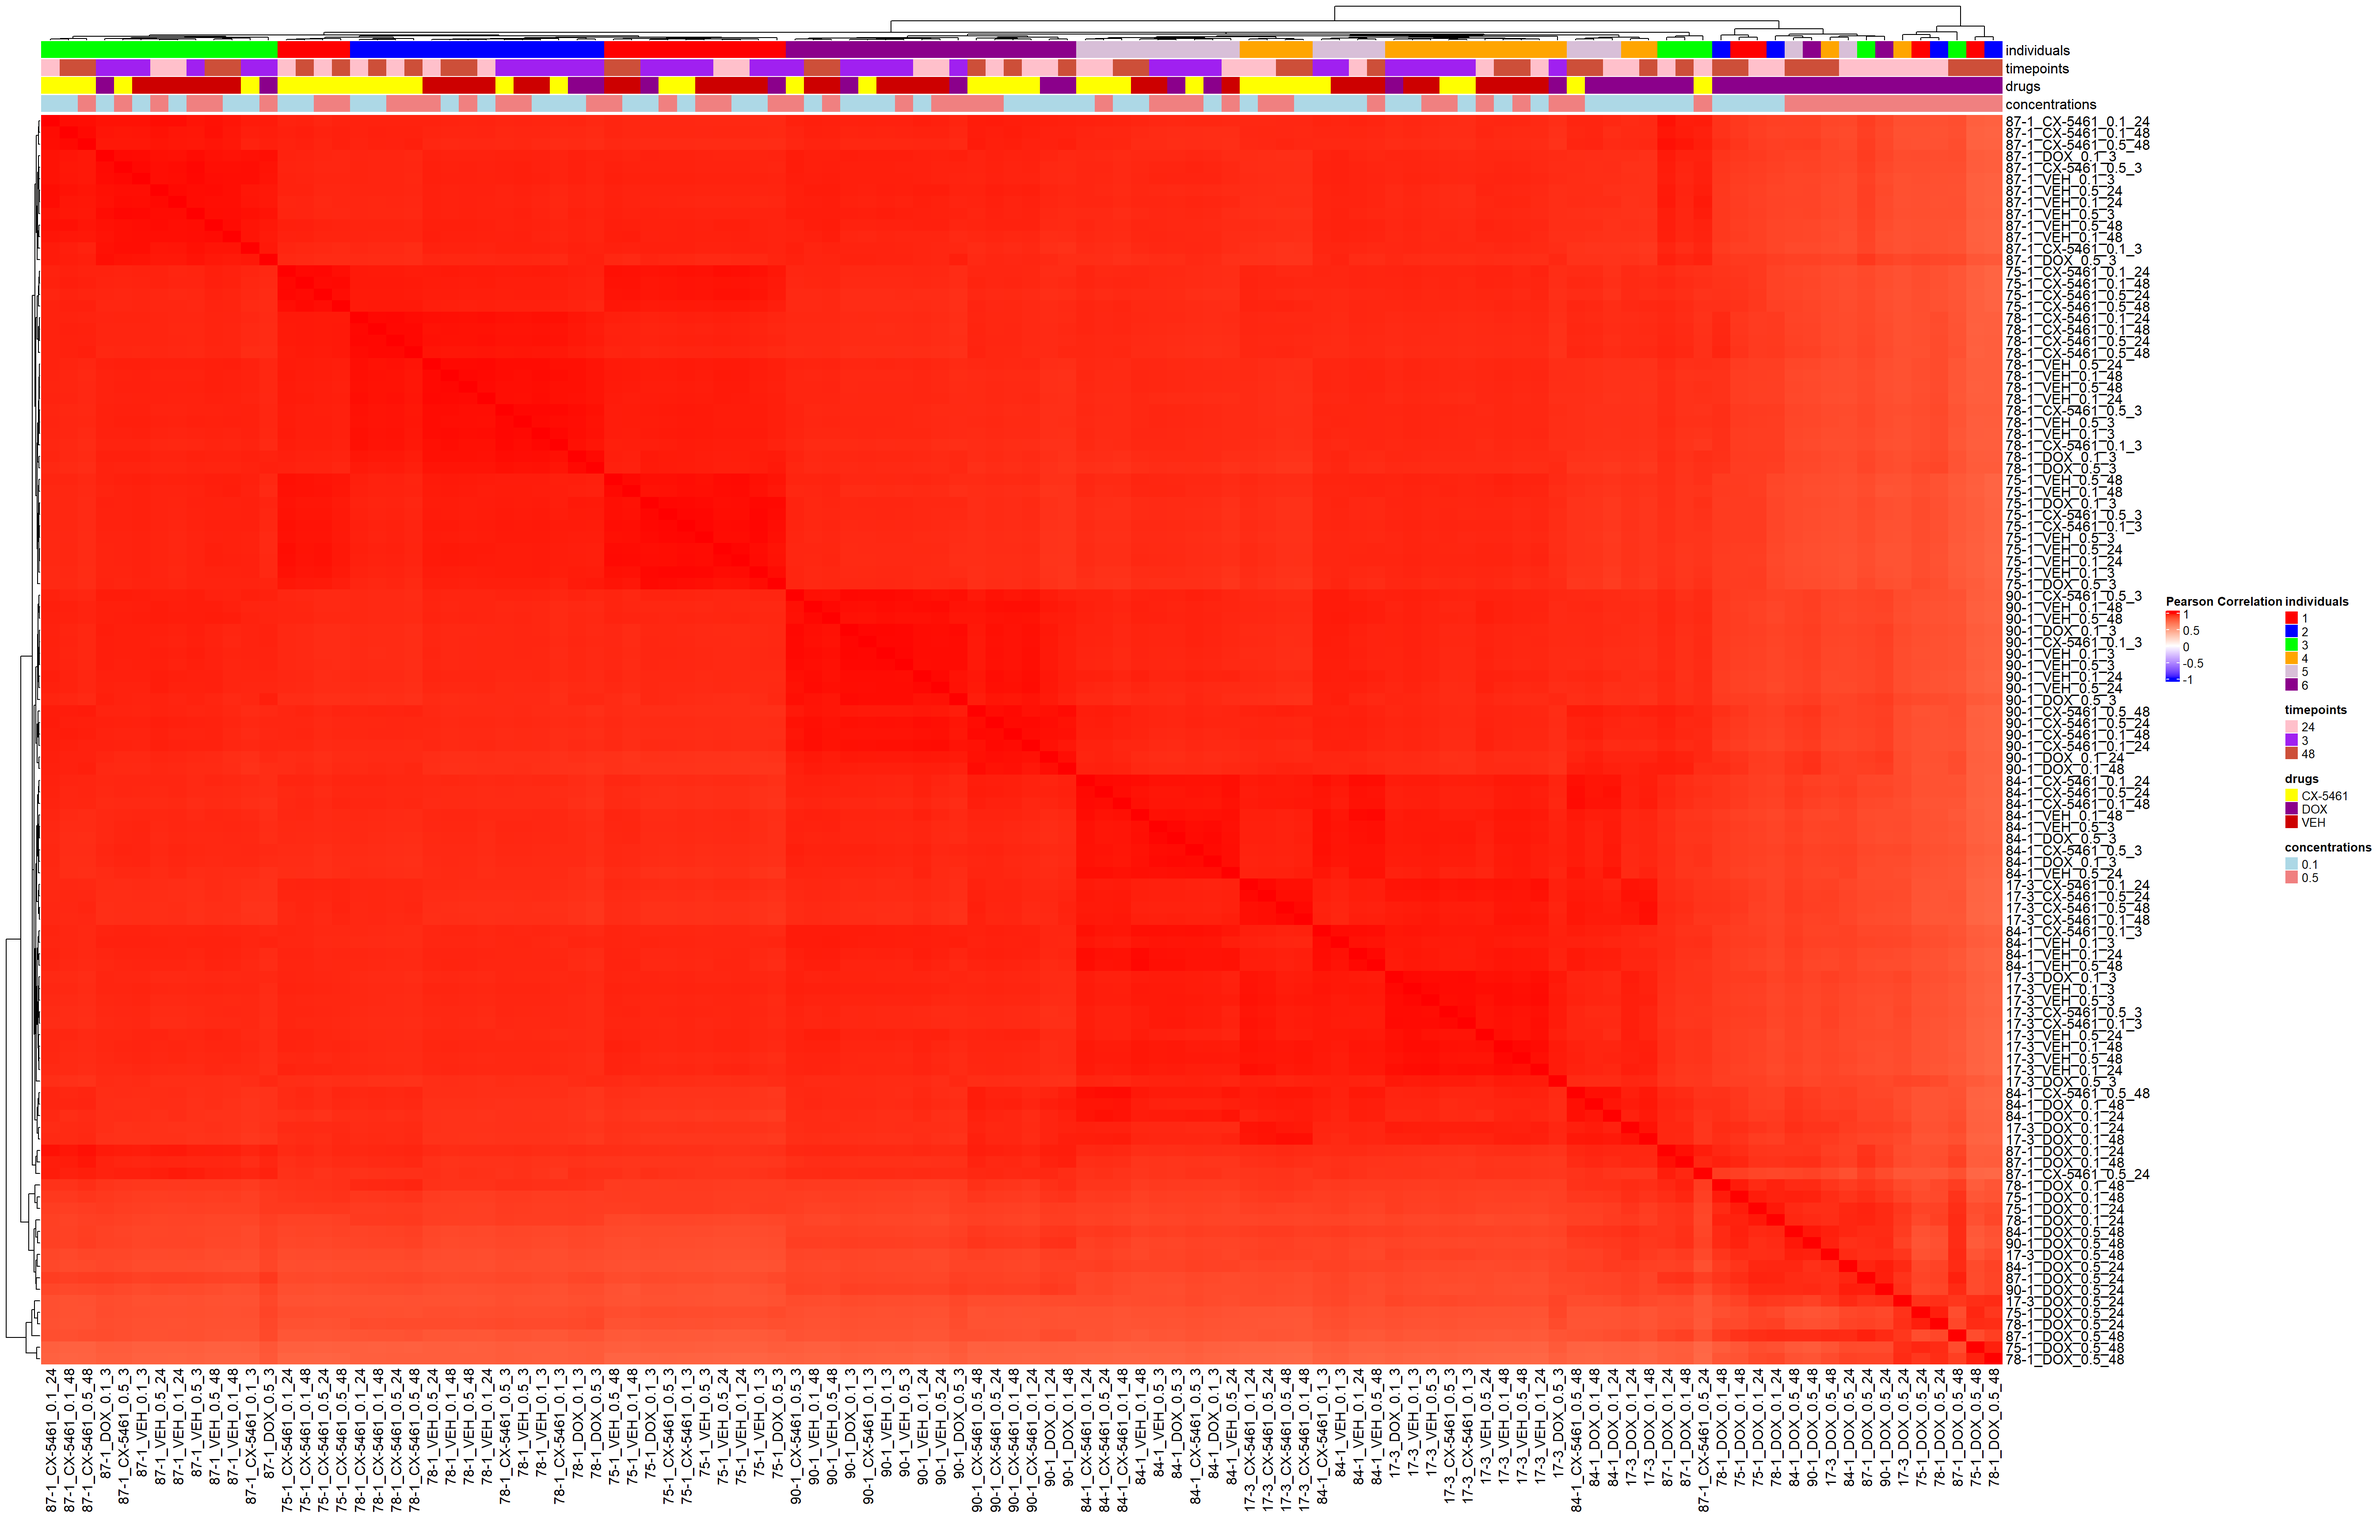
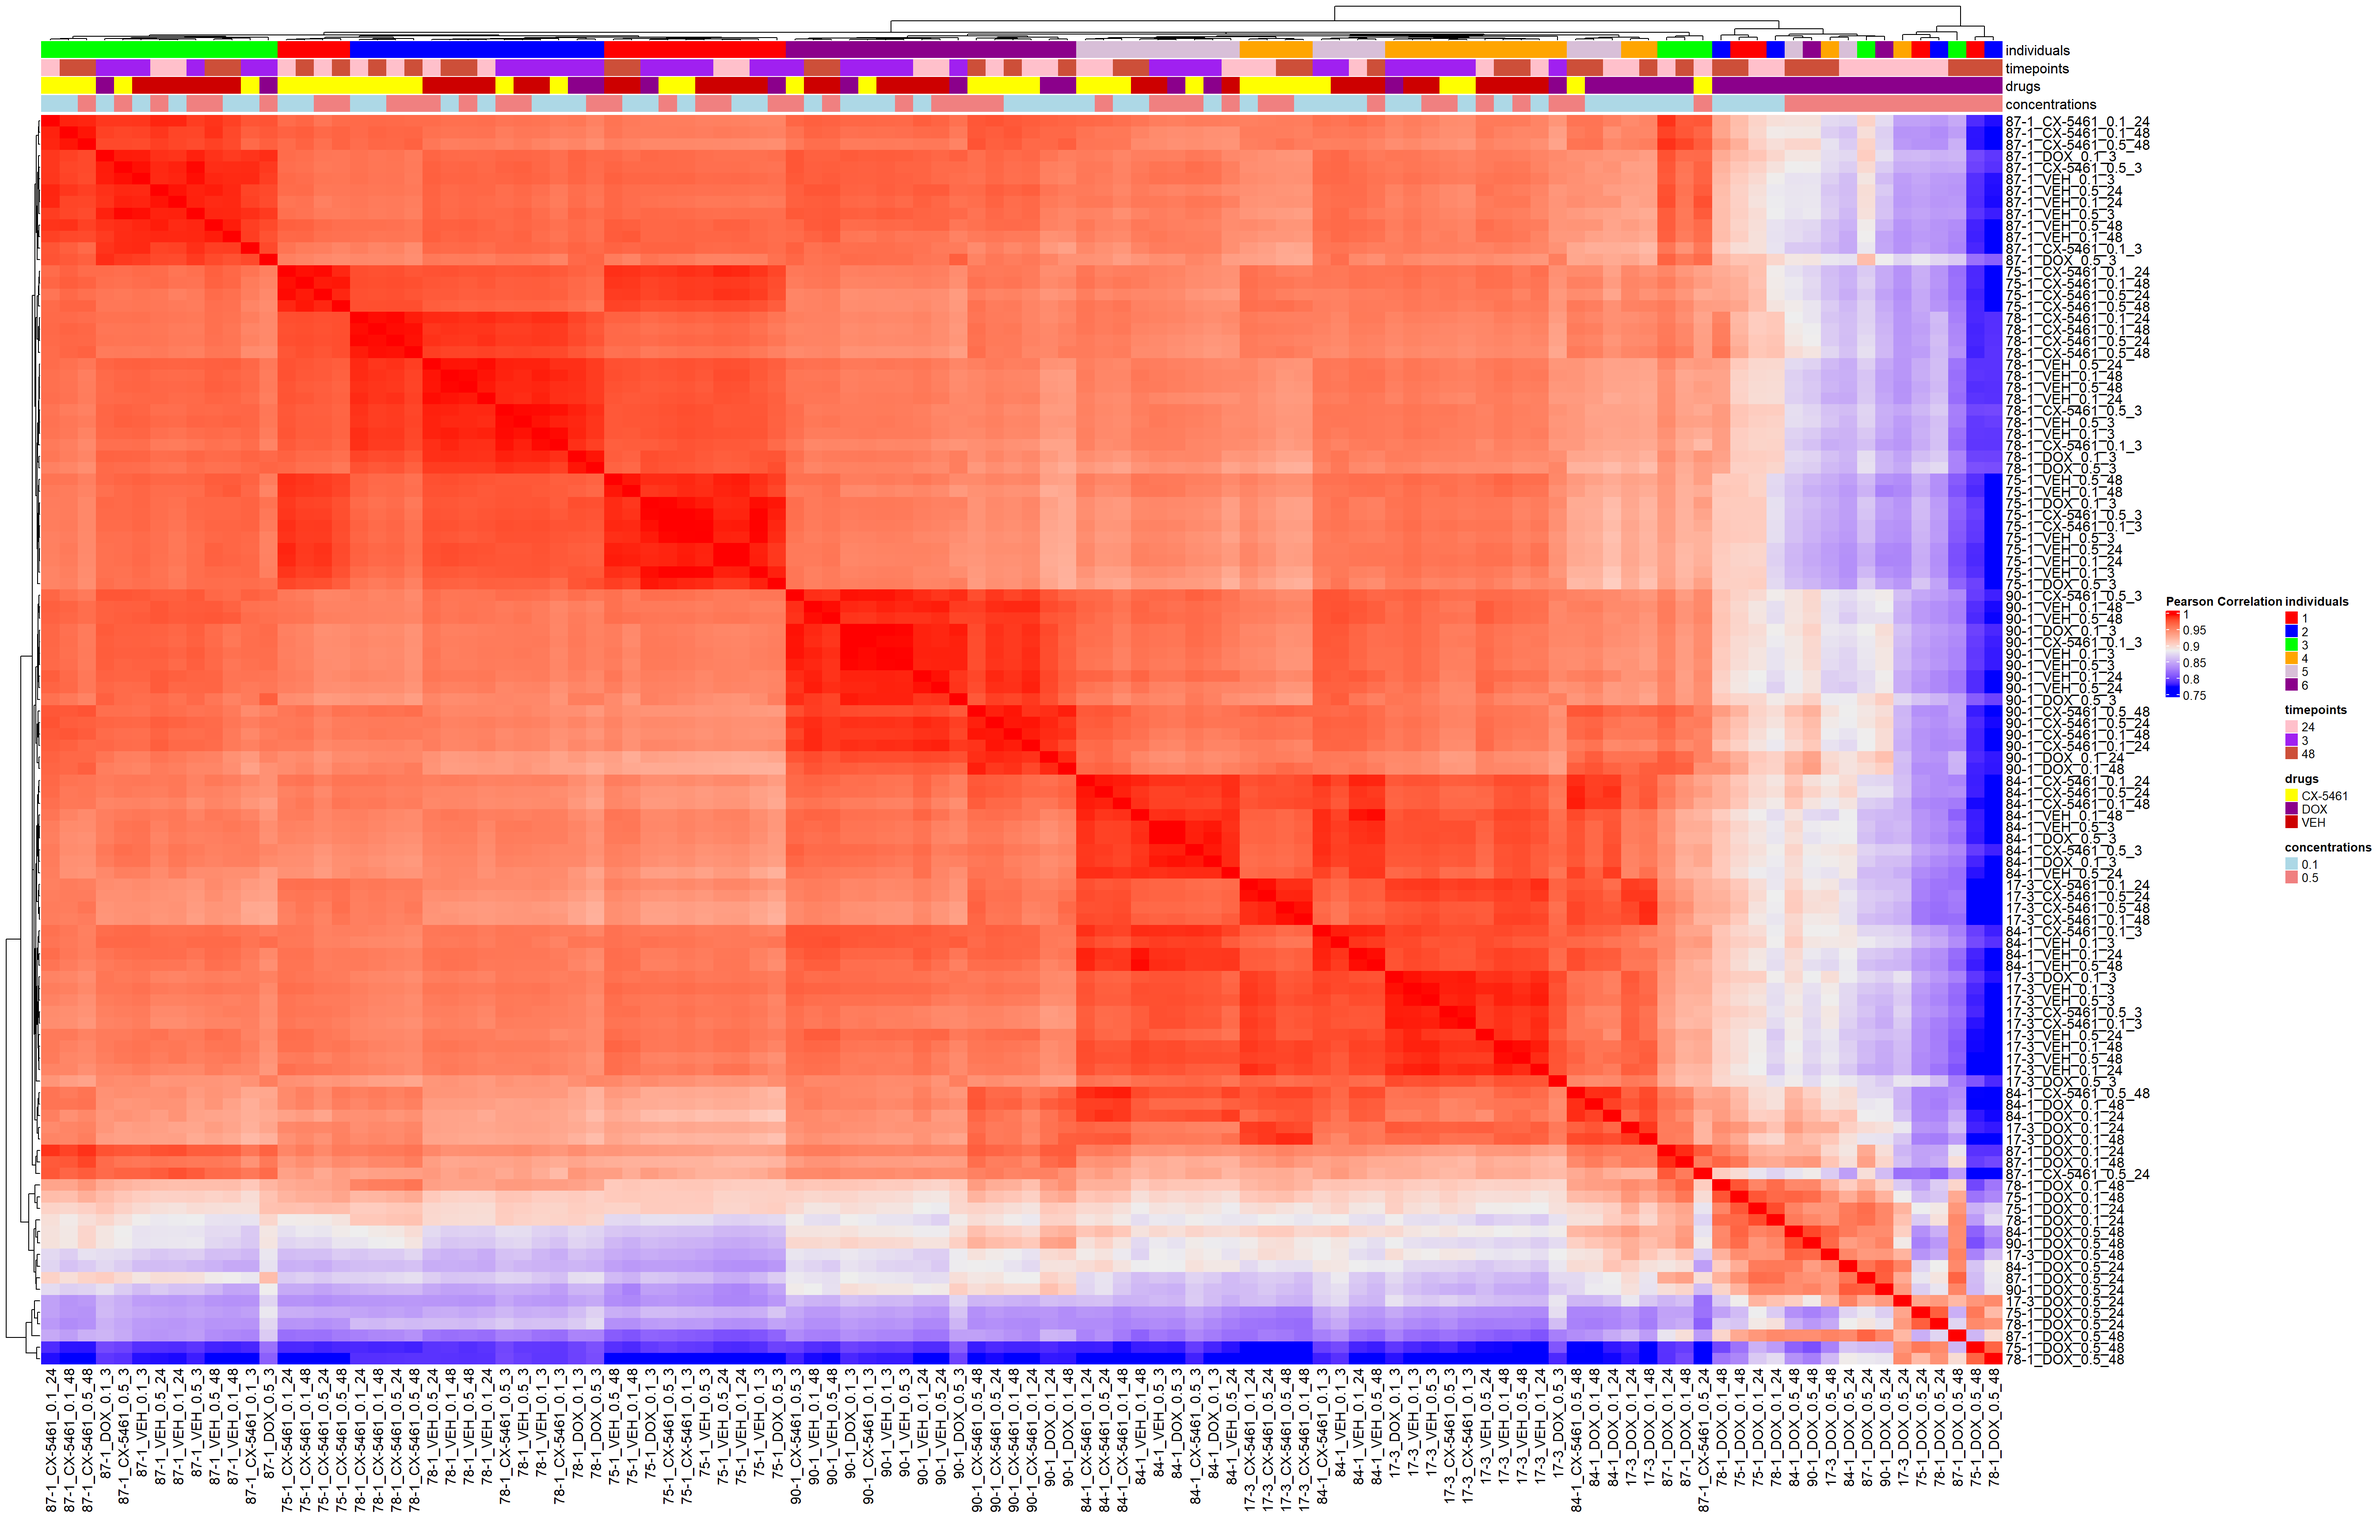
Build site.

diff --git a/docs/Correlation_Heatmap_of_Samples.html b/docs/Correlation_Heatmap_of_Samples.html
@@ -513,15 +513,15 @@ project makes it easier to run your code on other machines.</p>
 <div class="panel panel-default">
 <div class="panel-heading">
 <p class="panel-title">
-<a data-toggle="collapse" data-parent="#workflowr-checks" href="#strongRepositoryversionstrongahrefhttpsgithubcomsayanpaul01CX5461Projecttreee3ba601cf2a8a1beee904702753eb8eb1a19c544targetblanke3ba601a">
+<a data-toggle="collapse" data-parent="#workflowr-checks" href="#strongRepositoryversionstrongahrefhttpsgithubcomsayanpaul01CX5461Projecttree2add0dc65ab0c98a2fa8d4d615191203da216932targetblank2add0dca">
 <span class="glyphicon glyphicon-ok text-success"
 aria-hidden="true"></span> <strong>Repository version:</strong>
-<a href="https://github.com/sayanpaul01/CX5461_Project/tree/e3ba601cf2a8a1beee904702753eb8eb1a19c544" target="_blank">e3ba601</a>
+<a href="https://github.com/sayanpaul01/CX5461_Project/tree/2add0dc65ab0c98a2fa8d4d615191203da216932" target="_blank">2add0dc</a>
 </a>
 </p>
 </div>
 <div
[2 lines of base64/hex data omitted]
 class="panel-collapse collapse">
 <div class="panel-body">
 <p>
@@ -531,7 +531,7 @@ reproducibility.
 </p>
 <p>
 The results in this page were generated with repository version
-<a href="https://github.com/sayanpaul01/CX5461_Project/tree/e3ba601cf2a8a1beee904702753eb8eb1a19c544" target="_blank">e3ba601</a>.
+<a href="https://github.com/sayanpaul01/CX5461_Project/tree/2add0dc65ab0c98a2fa8d4d615191203da216932" target="_blank">2add0dc</a>.
 See the <em>Past versions</em> tab to see a history of the changes made
 to the R Markdown and HTML files.
 </p>
@@ -549,9 +549,6 @@ Ignored files:
     Ignored:    .RData
     Ignored:    .Rhistory
     Ignored:    .Rproj.user/
-
-Untracked files:
-    Untracked:  figure/
 
 </code></pre>
 <p>
@@ -598,6 +595,40 @@ Message
 </tr>
 </thead>
 <tbody>
+<tr>
+<td>
+Rmd
+</td>
+<td>
+<a href="https://github.com/sayanpaul01/CX5461_Project/blob/2add0dc65ab0c98a2fa8d4d615191203da216932/analysis/Correlation_Heatmap_of_Samples.Rmd" target="_blank">2add0dc</a>
+</td>
+<td>
+sayanpaul01
+</td>
+<td>
+2025-02-02
+</td>
+<td>
+Added correlation heatmap analysis
+</td>
+</tr>
+<tr>
+<td>
+html
+</td>
+<td>
+<a href="https://rawcdn.githack.com/sayanpaul01/CX5461_Project/51d11b372f70cb9b2a0a54efced65e65d99d61d0/docs/Correlation_Heatmap_of_Samples.html" target="_blank">51d11b3</a>
+</td>
+<td>
+sayanpaul01
+</td>
+<td>
+2025-02-02
+</td>
+<td>
+Build site.
+</td>
+</tr>
 <tr>
 <td>
 Rmd
@@ -718,12 +749,48 @@ heatmap_pearson &lt;- Heatmap(cor_matrix_pearson,
                            show_row_names = TRUE,
                            show_column_names = TRUE,
                            cluster_rows = TRUE,
-                           cluster_columns = TRUE,
-                           col = colorRamp2(c(-1, 0, 1), c(&quot;blue&quot;, &quot;white&quot;, &quot;red&quot;)))
+                           cluster_columns = TRUE)
 
 # Draw the heatmap
 draw(heatmap_pearson)</code></pre>
 <p><img src="figure/Correlation_Heatmap_of_Samples.Rmd/Pearson-1.png" width="2688" style="display: block; margin: auto;" /></p>
+<p>
+<button type="button" class="btn btn-default btn-xs btn-workflowr btn-workflowr-fig" data-toggle="collapse" data-target="#fig-Pearson-1">
+Past versions of Pearson-1.png
+</button>
+</p>
+<div id="fig-Pearson-1" class="collapse">
+<div class="table-responsive">
+<table class="table table-condensed table-hover">
+<thead>
+<tr>
+<th>
+Version
+</th>
+<th>
+Author
+</th>
+<th>
+Date
+</th>
+</tr>
+</thead>
+<tbody>
+<tr>
+<td>
+<a href="https://github.com/sayanpaul01/CX5461_Project/blob/51d11b372f70cb9b2a0a54efced65e65d99d61d0/docs/figure/Correlation_Heatmap_of_Samples.Rmd/Pearson-1.png" target="_blank">51d11b3</a>
+</td>
+<td>
+sayanpaul01
+</td>
+<td>
+2025-02-02
+</td>
+</tr>
+</tbody>
+</table>
+</div>
+</div>
 </div>
 <div id="spearman-correlation-heatmap" class="section level3">
 <h3><strong>📌Spearman Correlation Heatmap</strong></h3>
@@ -734,12 +801,48 @@ heatmap_spearman &lt;- Heatmap(cor_matrix_spearman,
                             show_row_names = TRUE,
                             show_column_names = TRUE,
                             cluster_rows = TRUE,
-                            cluster_columns = TRUE,
-                            col = colorRamp2(c(-1, 0, 1), c(&quot;blue&quot;, &quot;white&quot;, &quot;red&quot;)))
+                            cluster_columns = TRUE)
 
 # Draw the heatmap
 draw(heatmap_spearman)</code></pre>
 <p><img src="figure/Correlation_Heatmap_of_Samples.Rmd/Spearman-1.png" width="2688" style="display: block; margin: auto;" /></p>
+<p>
+<button type="button" class="btn btn-default btn-xs btn-workflowr btn-workflowr-fig" data-toggle="collapse" data-target="#fig-Spearman-1">
+Past versions of Spearman-1.png
+</button>
+</p>
+<div id="fig-Spearman-1" class="collapse">
+<div class="table-responsive">
+<table class="table table-condensed table-hover">
+<thead>
+<tr>
+<th>
+Version
+</th>
+<th>
+Author
+</th>
+<th>
+Date
+</th>
+</tr>
+</thead>
+<tbody>
+<tr>
+<td>
+<a href="https://github.com/sayanpaul01/CX5461_Project/blob/51d11b372f70cb9b2a0a54efced65e65d99d61d0/docs/figure/Correlation_Heatmap_of_Samples.Rmd/Spearman-1.png" target="_blank">51d11b3</a>
+</td>
+<td>
+sayanpaul01
+</td>
+<td>
+2025-02-02
+</td>
+</tr>
+</tbody>
+</table>
+</div>
+</div>
 <br>
 <p>
 <button type="button" class="btn btn-default btn-workflowr btn-workflowr-sessioninfo" data-toggle="collapse" data-target="#workflowr-sessioninfo" style="display: block;">
